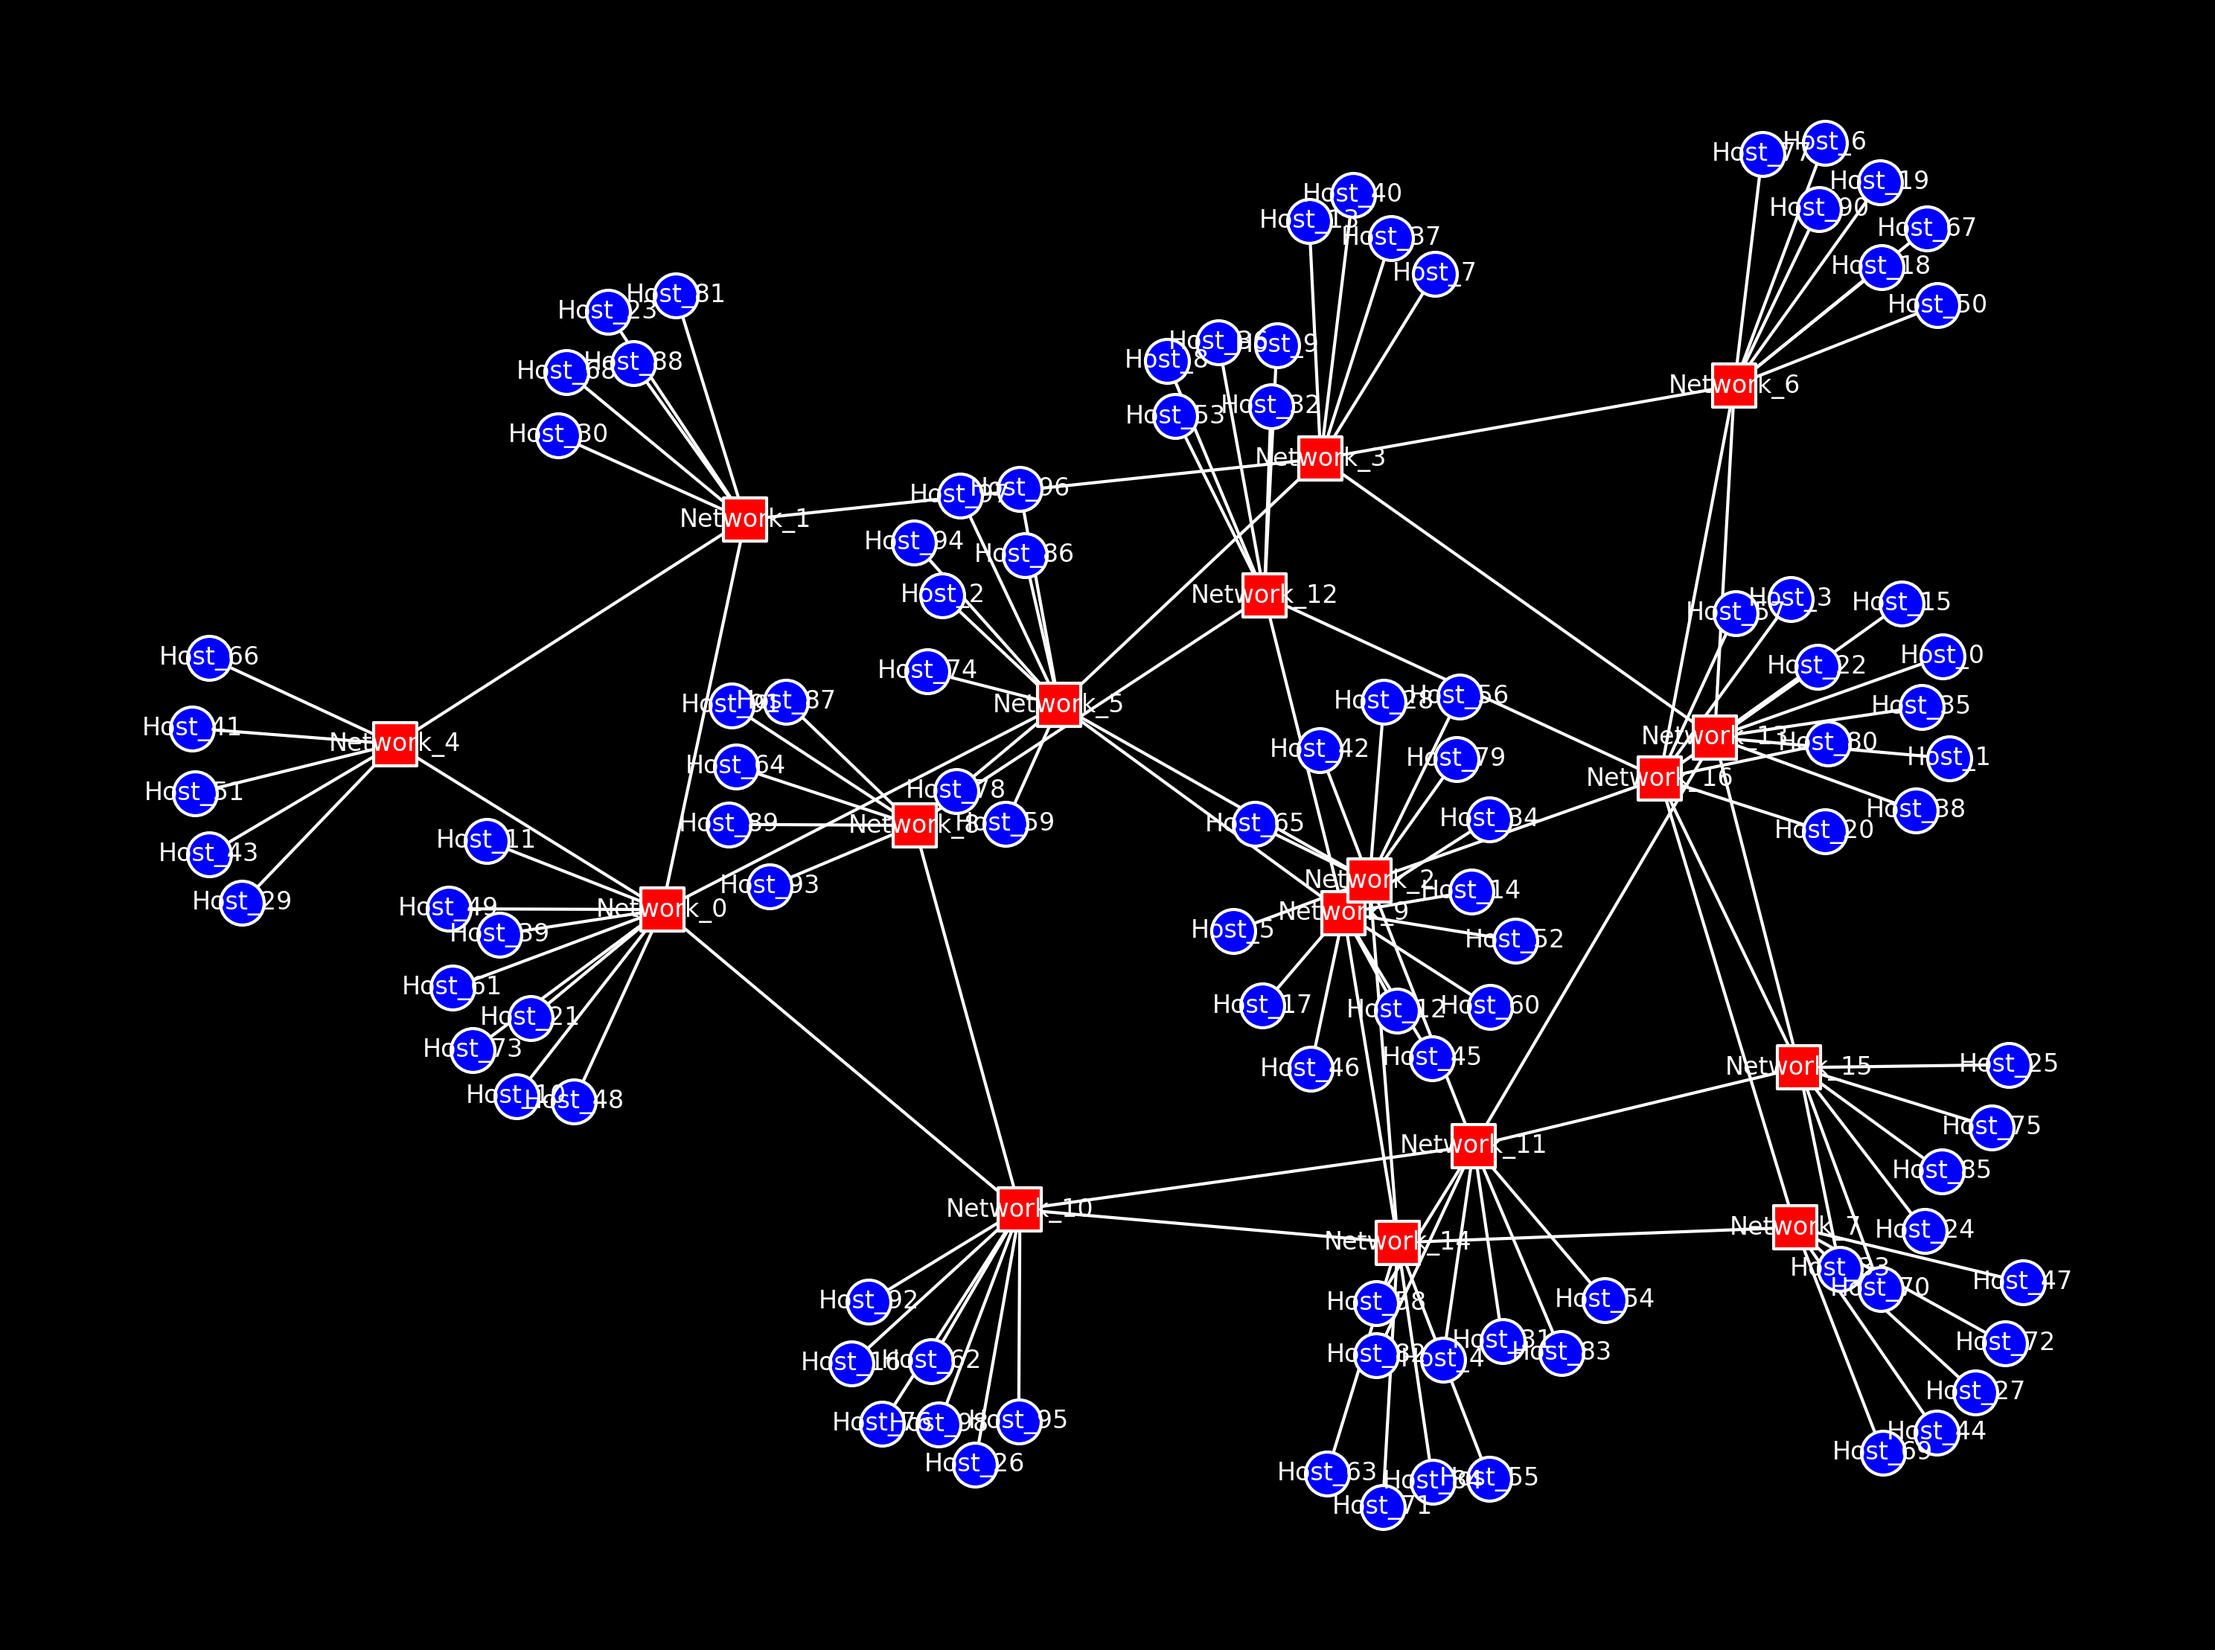
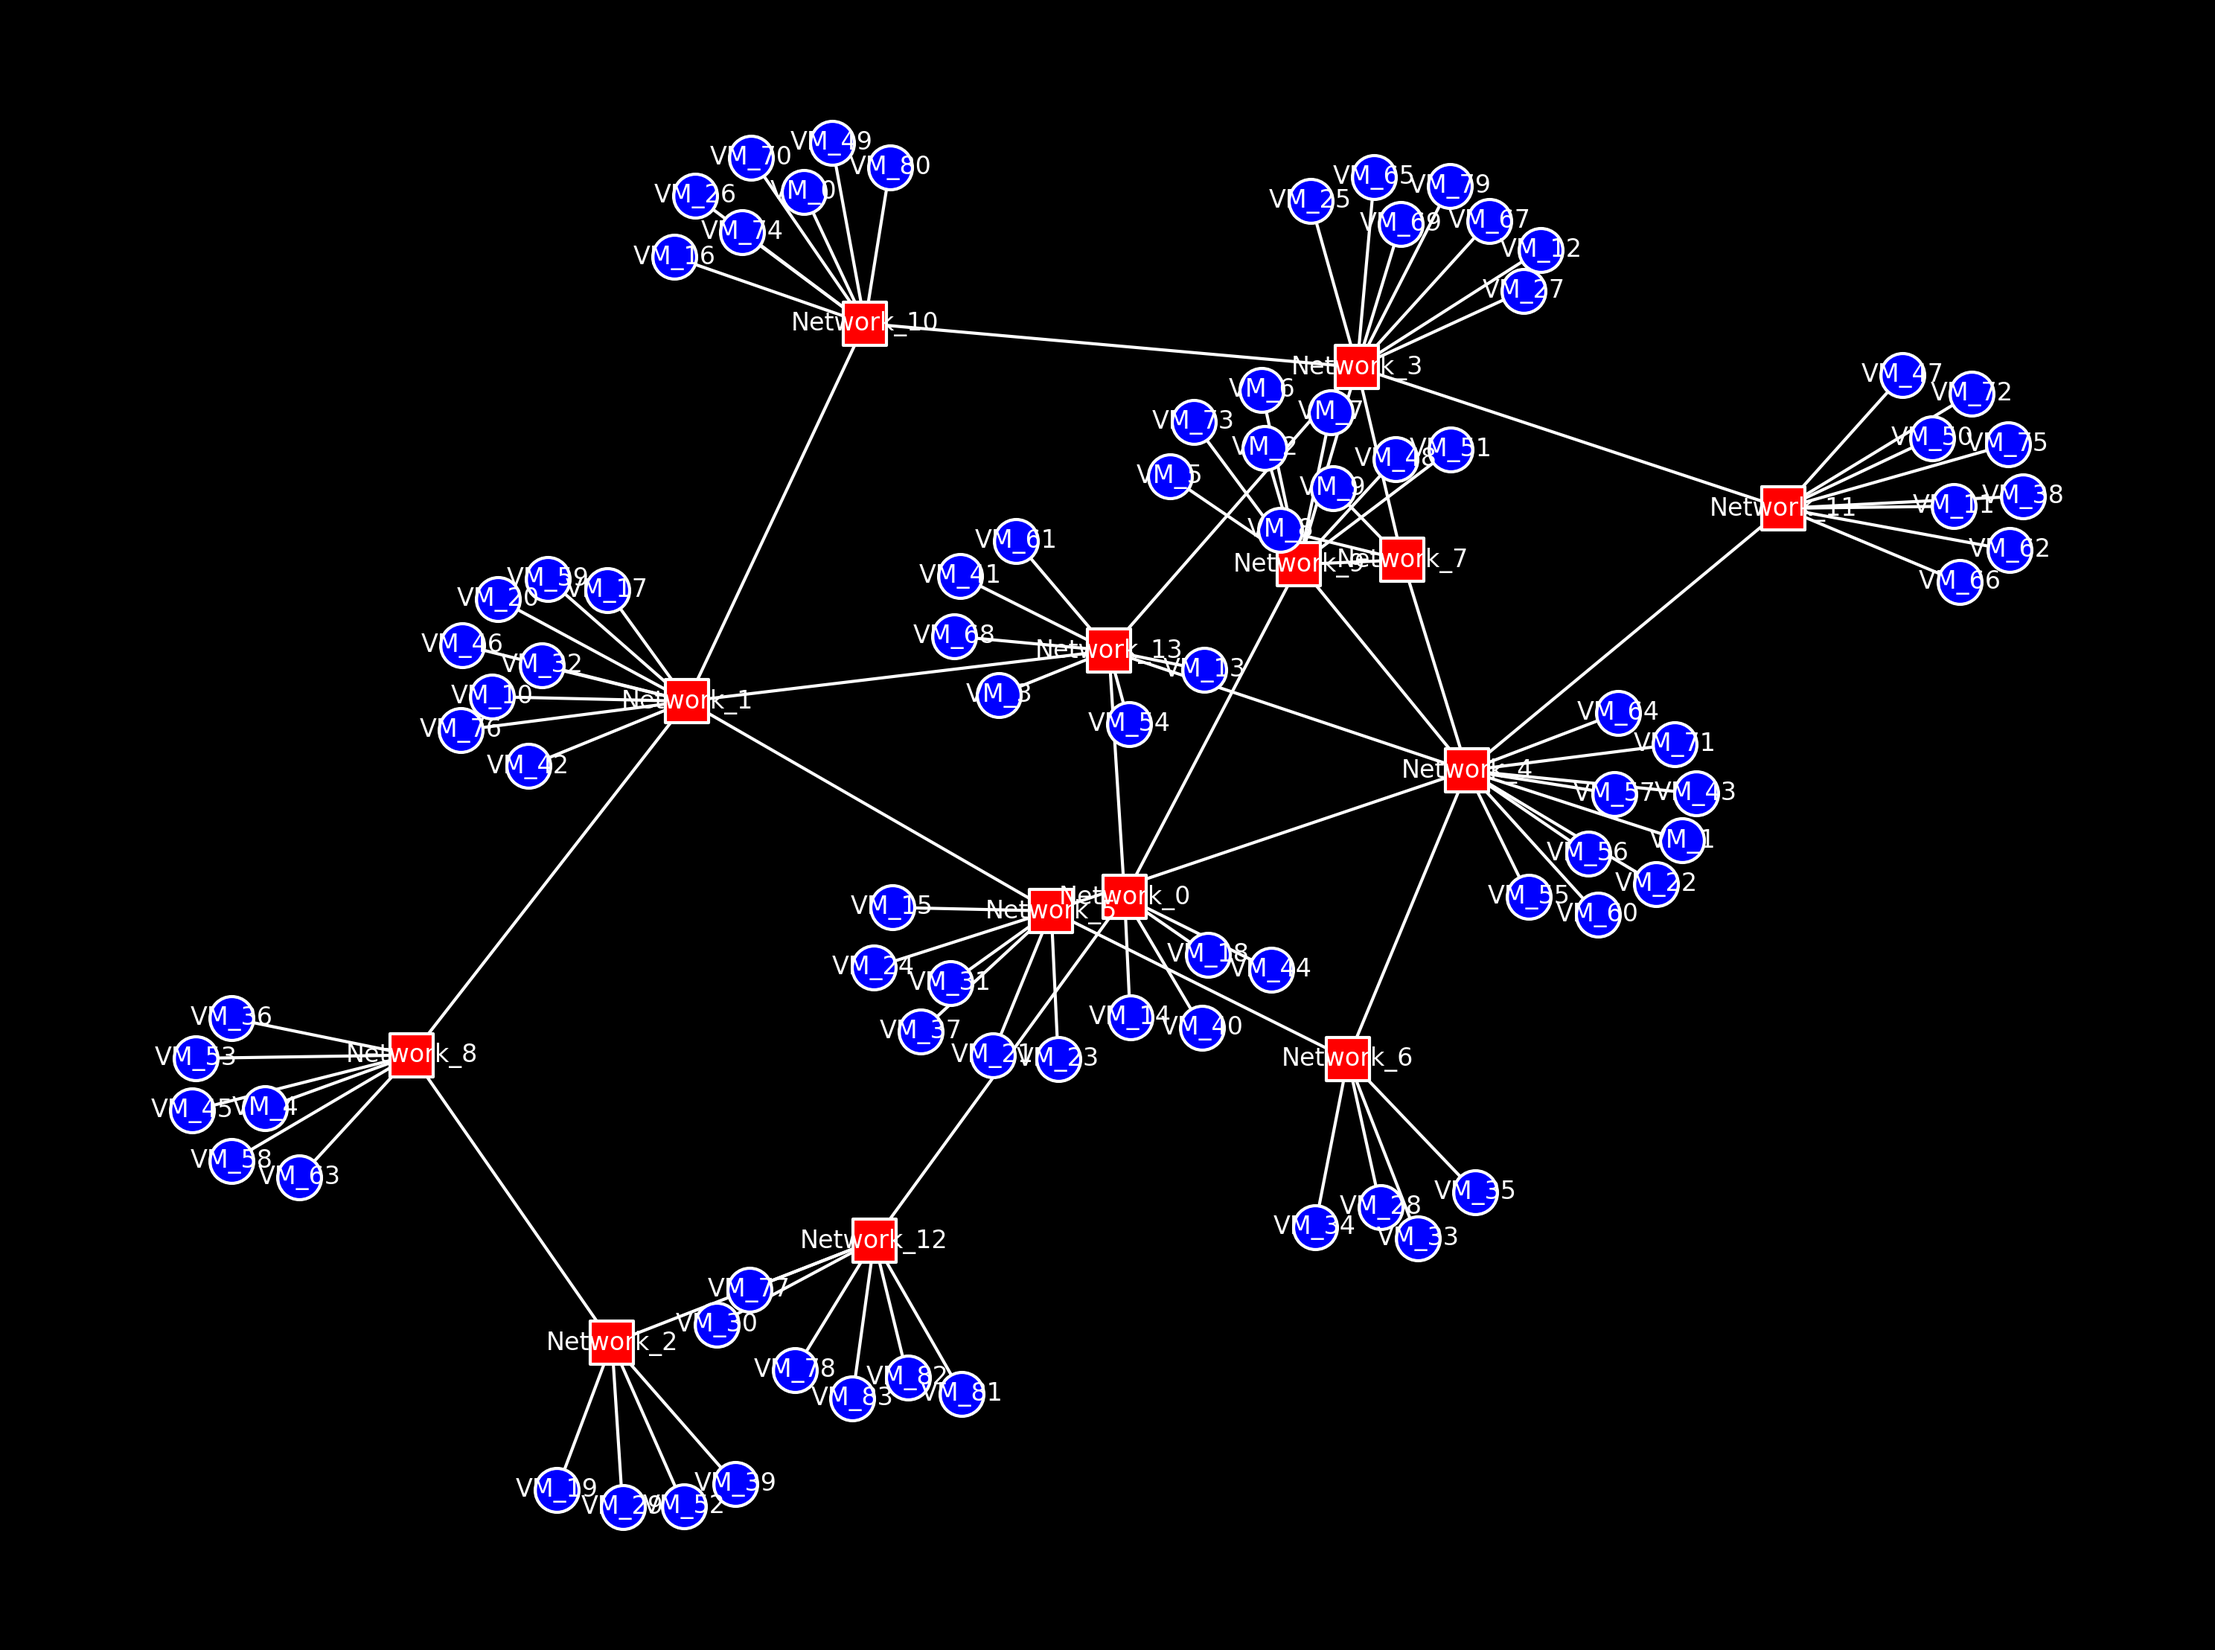
Renaming hosts to VM instances.

Changed region(s): [[0.0625, 0.0622, 0.9375, 0.9337], [0.7812, 0.5602, 0.9375, 0.9026], [0.4062, 0.6847, 0.4375, 0.7158]]

diff --git a/mal_sampler.py b/mal_sampler.py
@@ -21,23 +21,23 @@ class Asset:
 class Network(Asset):
     def __init__(self, name: str):
         super().__init__(name)
-        self.n_networks = 1 + binom(n=5, p=0.5).rvs()
+        self.n_networks = 1 + binom(n=500, p=0.005).rvs()
         self.networks = set()
-        self.n_hosts = 1 + binom(n=10, p=0.5).rvs()
-        self.hosts = set()
+        self.n_vm_instances = 1 + binom(n=1000, p=0.005).rvs()
+        self.vm_instances = set()
 
     def accepts_network(self):
         return len(self.networks) < self.n_networks
 
-    def accepts_host(self):
-        return len(self.hosts) < self.n_hosts
+    def accepts_vm_instance(self):
+        return len(self.vm_instances) < self.n_vm_instances
 
     def print(self):
         print(
-            f'Network: {self.name}. Associated networks: {[an.name for an in self.networks]}. Associated hosts: {[ah.name for ah in self.hosts]}')
+            f'Network: {self.name}. Associated networks: {[an.name for an in self.networks]}. Associated VM instances: {[ah.name for ah in self.vm_instances]}')
 
 
-class Host(Asset):
+class VMInstance(Asset):
     def __init__(self, name: str):
         super().__init__(name)
         self.n_networks = 1
@@ -48,14 +48,14 @@ class Host(Asset):
 
     def print(self):
         print(
-            f'Host: {self.name}. Networks: {[nw.name for nw in self.networks]}')
+            f'VMInstance: {self.name}. Networks: {[nw.name for nw in self.networks]}')
 
 
 class Model():
     def __init__(self):
         self.n_networks = 1 + binom(n=30, p=0.5).rvs()
         self.networks = set()
-        self.hosts = set()
+        self.vm_instances = set()
 
     def add_network(self):
         if len(self.networks) <= self.n_networks:
@@ -85,16 +85,16 @@ class Model():
                     f'Associated {source_nw.name} to {target_nw.name}. {len(available_networks)} networks left.')
                 return len(available_networks)
 
-    def associate_hosts_to_networks(self):
-        available_networks = [nw for nw in self.networks if nw.accepts_host()]
+    def associate_vm_instances_to_networks(self):
+        available_networks = [nw for nw in self.networks if nw.accepts_vm_instance()]
         if len(available_networks) == 0:
-            print('Not enough networks to associate hosts to')
+            print('Not enough networks to associate vm instances to')
         else:
             nw = random.choice(available_networks)
-            host = Host(f'Host_{len(self.hosts)}')
-            self.hosts.add(host)
-            nw.hosts.add(host)
-            host.networks.add(nw)
+            vm_instance = VMInstance(f'VM_{len(self.vm_instances)}')
+            self.vm_instances.add(vm_instance)
+            nw.vm_instances.add(vm_instance)
+            vm_instance.networks.add(nw)
         return len(available_networks)
 
     def print(self):
@@ -107,12 +107,12 @@ class Model():
             G.add_node(nw.name)
             for an in nw.networks:
                 G.add_edge(nw.name, an.name)
-            for ah in nw.hosts:
+            for ah in nw.vm_instances:
                 G.add_edge(nw.name, ah.name)
         pos = nx.spring_layout(G)
         plt.figure(facecolor='black')
         nx.draw_networkx_nodes(G, pos, nodelist=[nw.name for nw in self.networks], node_shape='s', node_color='red', edgecolors='white', linewidths=0.5, node_size=50)
-        nx.draw_networkx_nodes(G, pos, nodelist=[ah.name for ah in self.hosts], node_shape='o', node_color='blue', edgecolors='white', linewidths=0.5, node_size=50)
+        nx.draw_networkx_nodes(G, pos, nodelist=[ah.name for ah in self.vm_instances], node_shape='o', node_color='blue', edgecolors='white', linewidths=0.5, node_size=50)
         nx.draw_networkx_edges(G, pos, edge_color='white', width=0.5)
         nx.draw_networkx_labels(G, pos, font_color='white', font_size=4)
         plt.axis('off')
@@ -129,8 +129,8 @@ class Sampler():
         print('Associating networks to networks')
         while self.current_model.associate_networks_to_networks() > 1:
             pass
-        print('Associating hosts to networks')
-        while self.current_model.associate_hosts_to_networks() > 0:
+        print('Associating VM instances to networks')
+        while self.current_model.associate_vm_instances_to_networks() > 0:
             pass
         self.current_model.print()
         self.current_model.plot()
